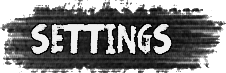
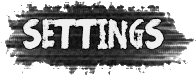
Fixed positioning in mainmenu and in highscore, new images too

diff --git a/zombie-world/src/se/glory/zombieworld/screens/HighscoreScreen.java b/zombie-world/src/se/glory/zombieworld/screens/HighscoreScreen.java
@@ -36,16 +36,16 @@ public class HighscoreScreen implements Screen {
 		
 		batch.begin();
 		batch.draw(backgroundTexture, 0, 0);
-		font.draw(batch, "1.", Constants.VIEWPORT_WIDTH/4, 270);
-		font.draw(batch, "2.", Constants.VIEWPORT_WIDTH/4, 240);
-		font.draw(batch, "3.", Constants.VIEWPORT_WIDTH/4, 210);
-		font.draw(batch, "4.", Constants.VIEWPORT_WIDTH/4, 180);
-		font.draw(batch, "5.", Constants.VIEWPORT_WIDTH/4, 150);
+		font.draw(batch, "1.", Constants.VIEWPORT_WIDTH/3, 350);
+		font.draw(batch, "2.", Constants.VIEWPORT_WIDTH/3, 320);
+		font.draw(batch, "3.", Constants.VIEWPORT_WIDTH/3, 290);
+		font.draw(batch, "4.", Constants.VIEWPORT_WIDTH/3, 260);
+		font.draw(batch, "5.", Constants.VIEWPORT_WIDTH/3, 230);
 		batch.end();
 	
 		for (int i = 0; i < 5; i++) {
 			batch.begin();
-			font.draw(batch, Score.getHighscoreAtPosition(i), Constants.VIEWPORT_WIDTH/4 + 100, 270 - (30 * i));
+			font.draw(batch, Score.getHighscoreAtPosition(i), Constants.VIEWPORT_WIDTH/3 + 100, 350 - (30 * i));
 			batch.end();
 		}
 		
@@ -67,17 +67,9 @@ public class HighscoreScreen implements Screen {
 		
 		Gdx.input.setInputProcessor(stage);
 		
-		highscoreLabel = new Image(new Texture(Gdx.files.internal("ui/highScoreLabel.png")));
-		highscoreLabel.setX(Constants.VIEWPORT_WIDTH/2 - highscoreLabel.getWidth()/2);
-		highscoreLabel.setY(295);
-		
-		stage.addActor(highscoreLabel);
-		
 		backButton = new Image(new Texture(Gdx.files.internal("ui/buttonBack.png")));
 		backButton.setX(Constants.VIEWPORT_WIDTH/2 - backButton.getWidth()/2);
 		backButton.setY(20);
-		
-		stage.addActor(backButton);
 		
 		backButton.addListener(new ClickListener() {
 			@Override
@@ -85,6 +77,8 @@ public class HighscoreScreen implements Screen {
 				((Game) Gdx.app.getApplicationListener()).setScreen(new MainMenu());
 			}
 		});
+
+		stage.addActor(backButton);
 	}
 
 	@Override

diff --git a/zombie-world/src/se/glory/zombieworld/screens/MainMenu.java b/zombie-world/src/se/glory/zombieworld/screens/MainMenu.java
@@ -18,6 +18,8 @@ public class MainMenu implements Screen {
 	
 	private SpriteBatch batch;
 	
+	private int yDiff = 75;
+	
 	private Texture backgroundTexture, buttonExitTexture, buttonPlayTexture, buttonSettingsTexture, buttonHighscoreTexture, buttonTutorialTexture;
 	private Image buttonExit, buttonPlay, buttonSettings, buttonHighscore, buttonTutorial;
     
@@ -63,20 +65,20 @@ public class MainMenu implements Screen {
 		
 		buttonTutorial = new Image(buttonTutorialTexture);
 		buttonTutorial.setX(Constants.VIEWPORT_WIDTH/2 - buttonTutorialTexture.getWidth()/2);
-		buttonTutorial.setY(buttonPlay.getY() - 75);
+		buttonTutorial.setY(buttonPlay.getY() - yDiff);
 		
 		
 		buttonSettings = new Image(buttonSettingsTexture);
 		buttonSettings.setX(Constants.VIEWPORT_WIDTH/2 - buttonSettingsTexture.getWidth()/2);
-		buttonSettings.setY(buttonTutorial.getY() - 75);
+		buttonSettings.setY(buttonTutorial.getY() - yDiff);
 		
 		buttonHighscore = new Image(buttonHighscoreTexture);
-		buttonHighscore.setX(Constants.VIEWPORT_WIDTH/2 - buttonSettingsTexture.getWidth()/2);
-		buttonHighscore.setY(buttonSettings.getY() - 75);
+		buttonHighscore.setX(Constants.VIEWPORT_WIDTH/2 - buttonHighscoreTexture.getWidth()/2);
+		buttonHighscore.setY(buttonSettings.getY() - yDiff);
 		
 		buttonExit = new Image(buttonExitTexture);
-		buttonExit.setX(Constants.VIEWPORT_WIDTH/2 - buttonExitTexture.getWidth()/2);
-		buttonExit.setY(buttonHighscore.getY() - 75);
+		buttonExit.setX(Constants.VIEWPORT_WIDTH/2 - buttonExitTexture.getWidth()/2 - 10);
+		buttonExit.setY(buttonHighscore.getY() - 65);
 
 		//Adding listeners to buttons
 		buttonPlay.addListener(new ClickListener() {
